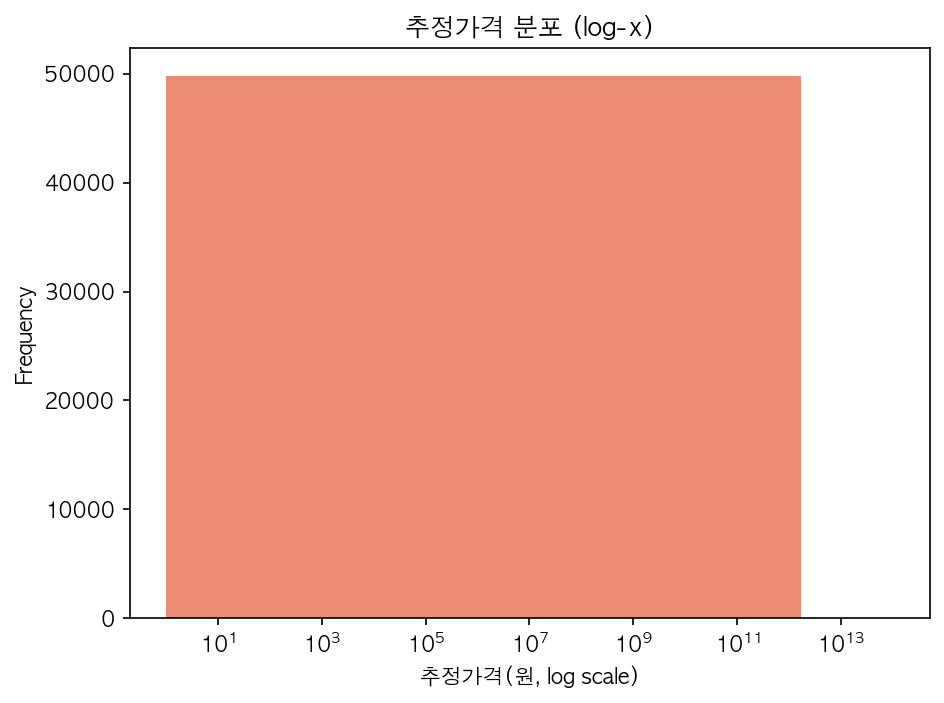
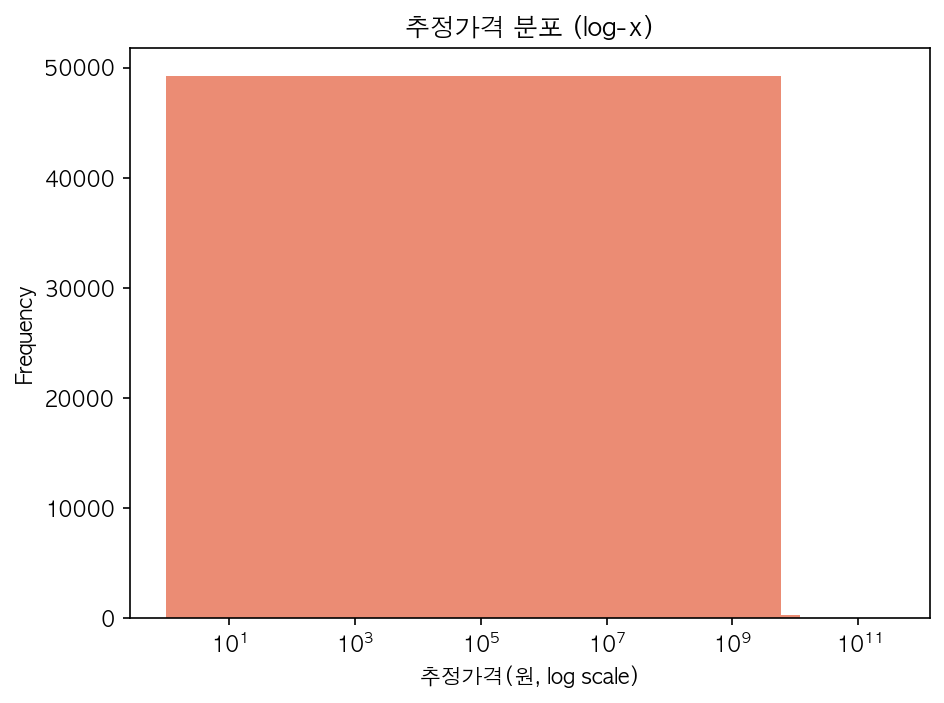
fix: 추정가격 sentinel 이상치 제거(10조 초과 → NA)
- presmptPrce/bssamt 반복숫자 더미값 3건 제거
- 평균 65.5억→4.95억, 최대 3,588억으로 정상화
- 가격 히스토그램 figure 갱신

diff --git a/src/preprocess_rfp.py b/src/preprocess_rfp.py
@@ -116,6 +116,8 @@ def load_meta(in_dir: Path) -> pd.DataFrame:
     df["year_month"] = df["bidNtceDt_dt"].dt.to_period("M").astype(str)
     for col in ["presmptPrce", "bssamt"]:
         df[col] = pd.to_numeric(df[col], errors="coerce")
+        # 반복숫자 sentinel(10조 초과) 이상치 제거
+        df.loc[df[col] > 1e13, col] = pd.NA
     df["industry"] = df["bidNtceNm"].apply(tag_industry)
     df["consulting_type"] = df["bidNtceNm"].apply(tag_consulting)
     ai = df["bidNtceNm"].apply(tag_ai_class)